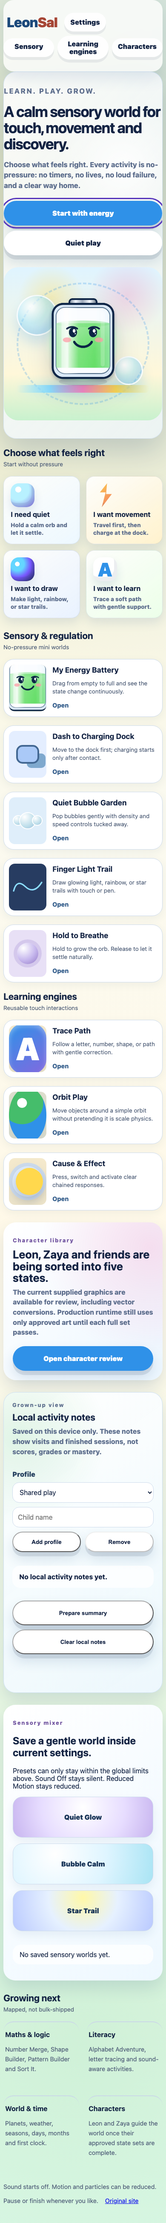
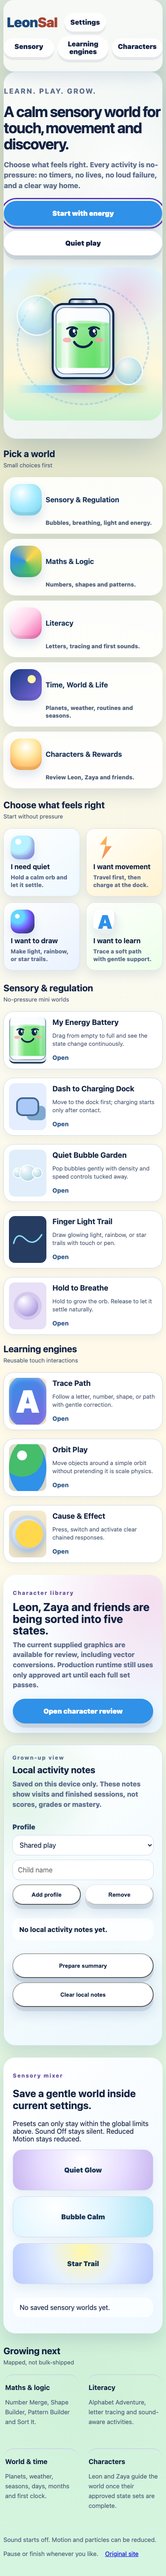
Add V2 home five-world entry map

diff --git a/v2-proofs.css b/v2-proofs.css
@@ -669,6 +669,40 @@ body[data-contrast="strong"] .game-topbar {
 .hub-bubble-one { width: 96px; height: 96px; left: 8%; top: 18%; animation: hub-float 4.8s ease-in-out infinite; }
 .hub-bubble-two { width: 68px; height: 68px; right: 12%; bottom: 23%; animation: hub-float 5.4s ease-in-out infinite reverse; }
 
+.world-map { margin: 22px 0 26px; }
+.world-map-grid {
+  display: grid;
+  grid-template-columns: repeat(5, minmax(0, 1fr));
+  gap: 12px;
+}
+.world-map-card {
+  min-height: 190px;
+  padding: 16px;
+  border-radius: 28px;
+  text-decoration: none;
+  color: #173356;
+  background: rgba(255,255,255,.88);
+  box-shadow: 0 16px 35px rgba(30, 70, 120, .13);
+  display: grid;
+  align-content: start;
+  gap: 9px;
+  transition: transform .16s ease, box-shadow .16s ease;
+}
+.world-map-card:active { transform: translateY(3px) scale(.985); }
+.world-map-card span {
+  width: 74px;
+  aspect-ratio: 1;
+  border-radius: 24px;
+  box-shadow: inset 0 -8px 0 rgba(19, 35, 67, .08), 0 12px 22px rgba(28, 77, 140, .14);
+}
+.world-map-card strong { font-size: 1.05rem; line-height: 1.12; }
+.world-map-card small { color: #52617a; line-height: 1.35; font-weight: 800; }
+.sensory-world span { background: radial-gradient(circle at 35% 28%, #fff, #aeeeff 42%, #72cfeb); }
+.maths-world span { background: conic-gradient(from 45deg, #ffd84d, #45bd6b, #2f91e8, #ffd84d); }
+.literacy-world span { background: linear-gradient(135deg, #fff, #ffd2ea 48%, #f15aa6); }
+.time-world span { background: radial-gradient(circle at 68% 32%, #fff8a8 0 13%, transparent 14%), linear-gradient(135deg, #163a80, #8269df); }
+.character-world span { background: radial-gradient(circle at 50% 28%, #fff, #ffe9a4 38%, #ff9d3b); }
+
 .hub-game-grid {
   grid-template-columns: repeat(5, minmax(0, 1fr));
 }
@@ -896,6 +930,9 @@ body[data-calm="true"] .hub-art {
   .hub-engine-grid {
     grid-template-columns: repeat(2, minmax(0, 1fr));
   }
+  .world-map-grid {
+    grid-template-columns: repeat(3, minmax(0, 1fr));
+  }
 }
 
 @media (max-width: 620px) {
@@ -934,6 +971,18 @@ body[data-calm="true"] .hub-art {
   .hub-game-grid,
   .hub-engine-grid {
     grid-template-columns: 1fr;
+  }
+  .world-map-grid {
+    grid-template-columns: 1fr;
+  }
+  .world-map-card {
+    min-height: 118px;
+    grid-template-columns: 74px 1fr;
+    align-items: center;
+    align-content: center;
+  }
+  .world-map-card small {
+    grid-column: 2;
   }
   .need-grid {
     grid-template-columns: 1fr 1fr;

diff --git a/v2-home.html b/v2-home.html
@@ -44,6 +44,17 @@
       </div>
     </section>
 
+    <section class="world-map" aria-labelledby="world-map-title">
+      <div class="world-section-heading"><h2 id="world-map-title">Pick a world</h2><span>Small choices first</span></div>
+      <div class="world-map-grid">
+        <a class="world-map-card sensory-world" href="#sensory-title"><span aria-hidden="true"></span><strong>Sensory &amp; Regulation</strong><small>Bubbles, breathing, light and energy.</small></a>
+        <a class="world-map-card maths-world" href="number-merge.html"><span aria-hidden="true"></span><strong>Maths &amp; Logic</strong><small>Numbers, shapes and patterns.</small></a>
+        <a class="world-map-card literacy-world" href="alphabet-adventure.html"><span aria-hidden="true"></span><strong>Literacy</strong><small>Letters, tracing and first sounds.</small></a>
+        <a class="world-map-card time-world" href="#next-title"><span aria-hidden="true"></span><strong>Time, World &amp; Life</strong><small>Planets, weather, routines and seasons.</small></a>
+        <a class="world-map-card character-world" href="character-review.html"><span aria-hidden="true"></span><strong>Characters &amp; Rewards</strong><small>Review Leon, Zaya and friends.</small></a>
+      </div>
+    </section>
+
     <section class="need-picker" aria-labelledby="need-title">
       <div class="world-section-heading"><h2 id="need-title">Choose what feels right</h2><span>Start without pressure</span></div>
       <div class="need-grid">

diff --git a/docs/LEONSAL_COMPLETION_CHECKLIST.md b/docs/LEONSAL_COMPLETION_CHECKLIST.md
@@ -46,6 +46,7 @@
 - [x] Retire the old push-triggered character pilot extraction workflow and add approval-preservation verification so it cannot auto-run, write contents, invoke the chart-crop builder or push generated art.
 - [x] Add explicit shared game-shell resource ownership and destroy coverage so future engines can register disposable resources and clean them up exactly once.
 - [x] Add pinned npm check scripts, reproducible lockfile and a read-only GitHub Actions verification workflow for the current static V2 proof architecture.
+- [x] Add the five-world V2 home entry map so children see Sensory, Maths, Literacy, Time/World and Characters choices before the detailed proof list.
 
 These changes remain preview work. They do not approve character art, claim production deployment, or complete all foundation contracts.
 
